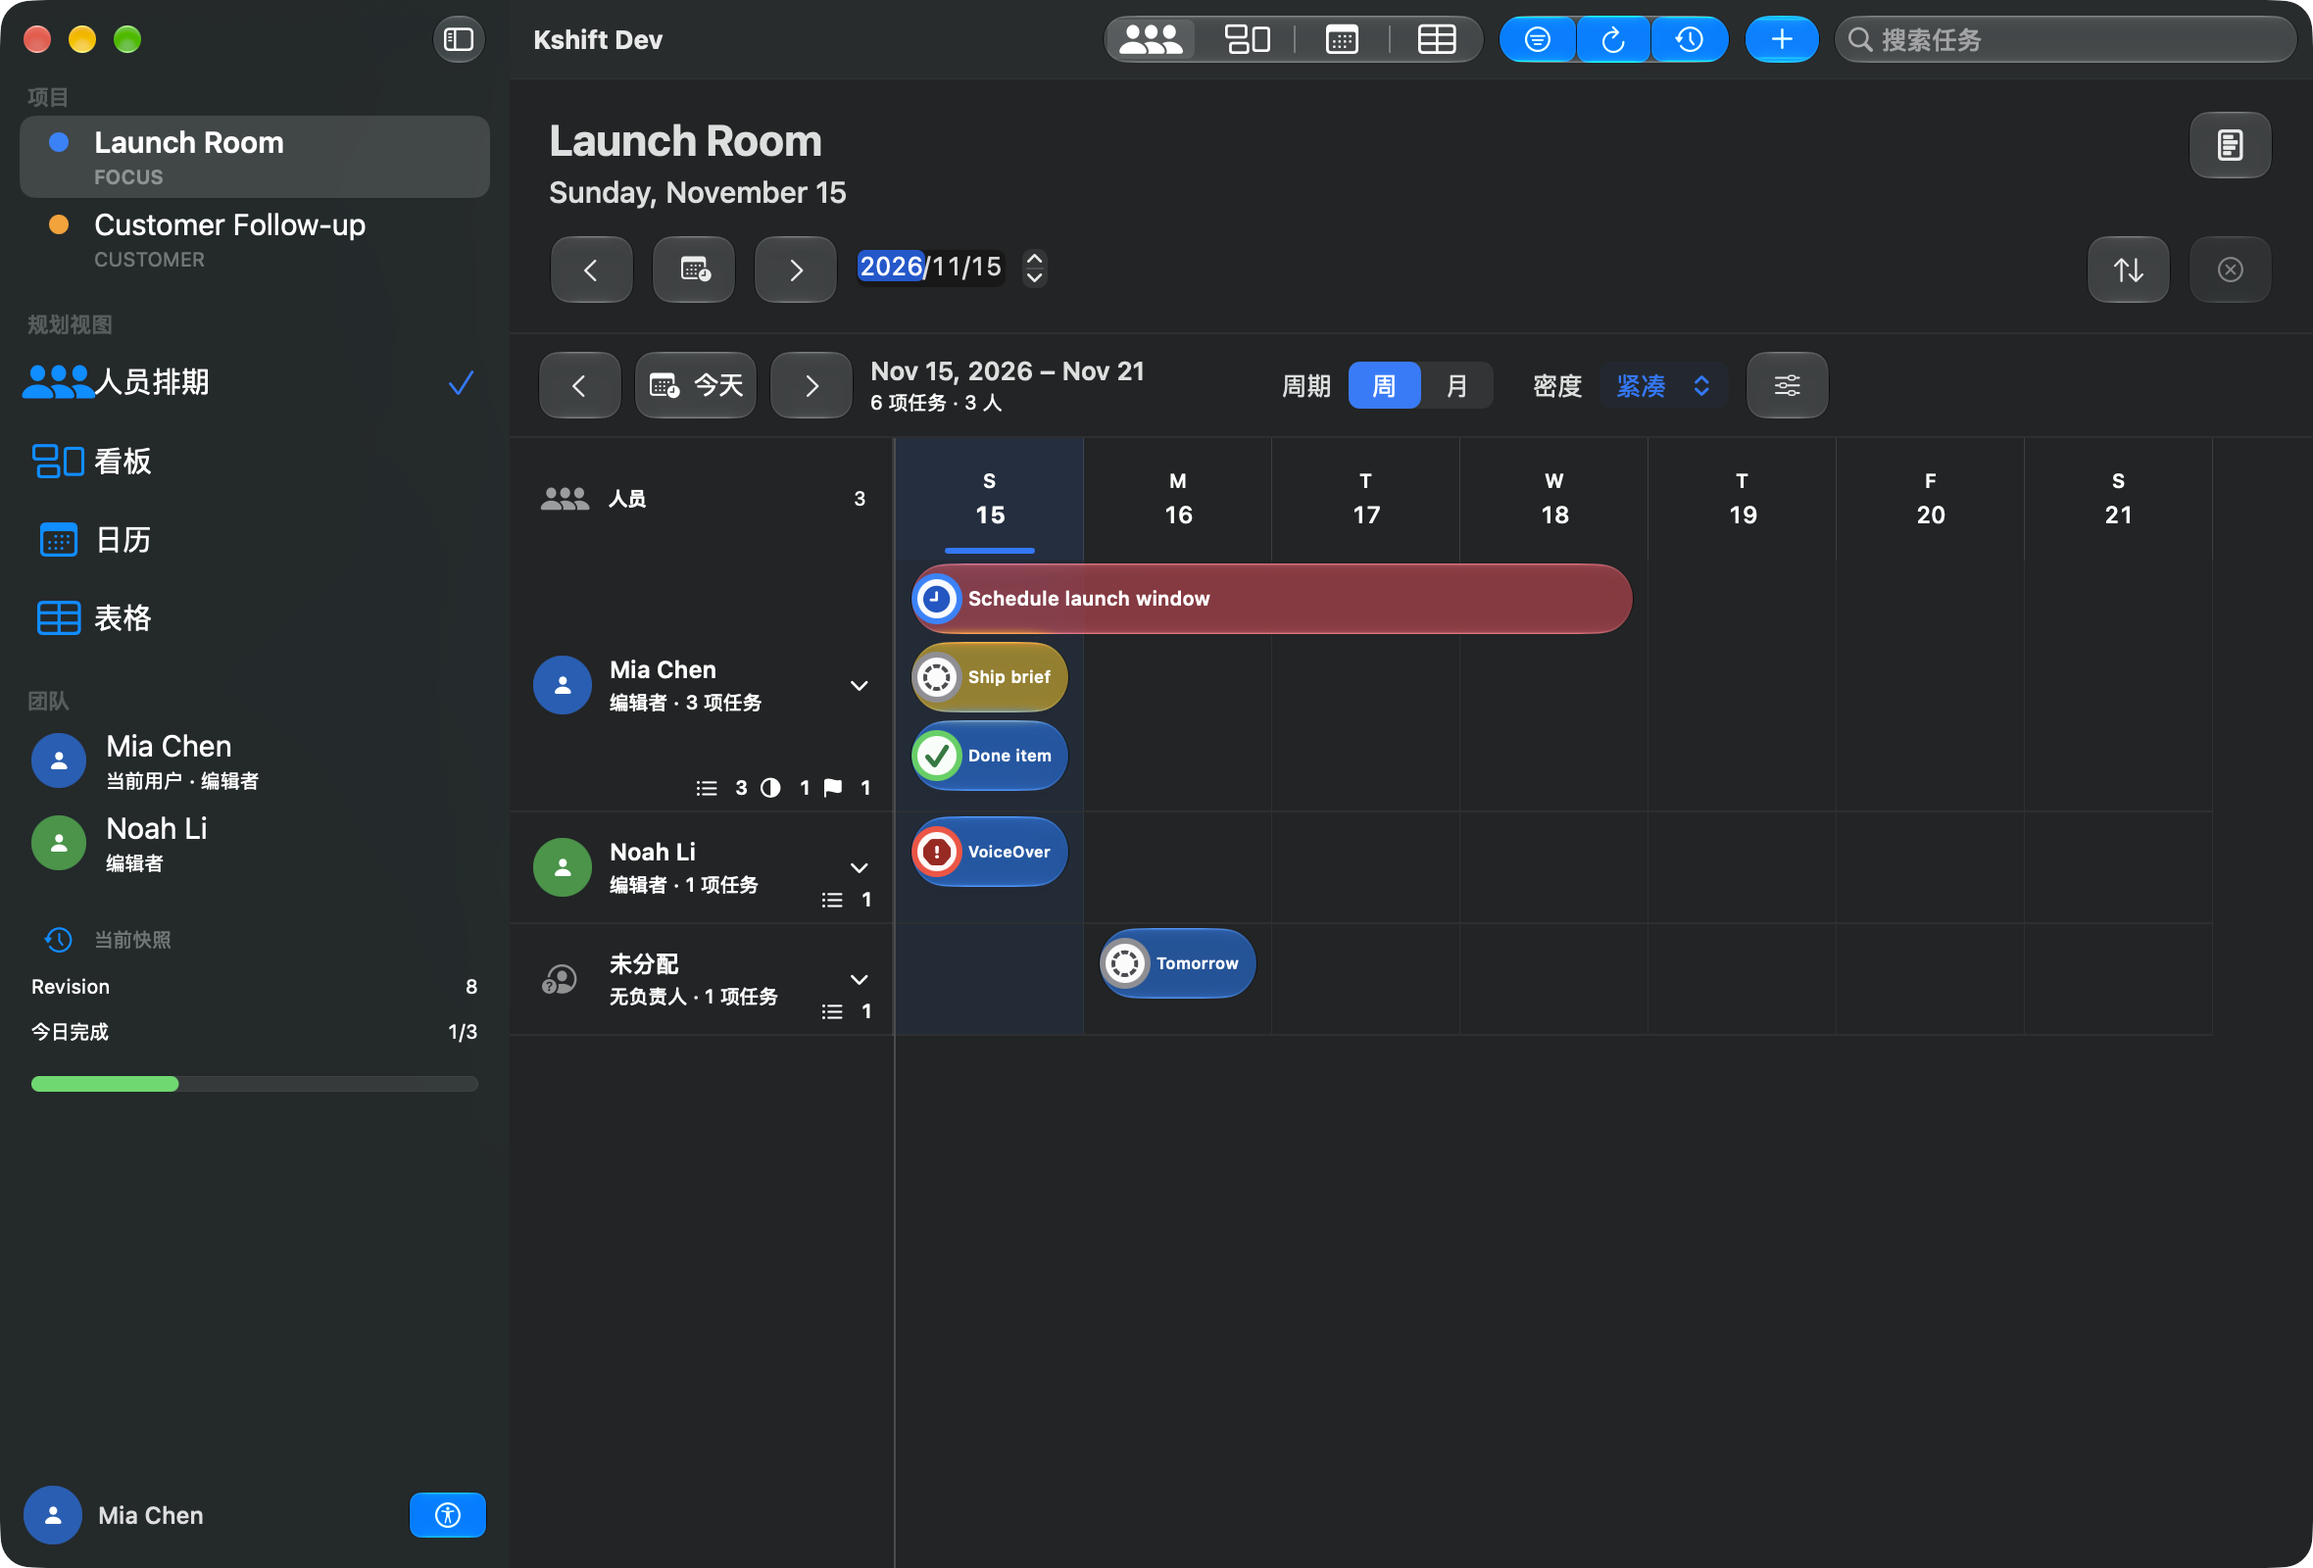
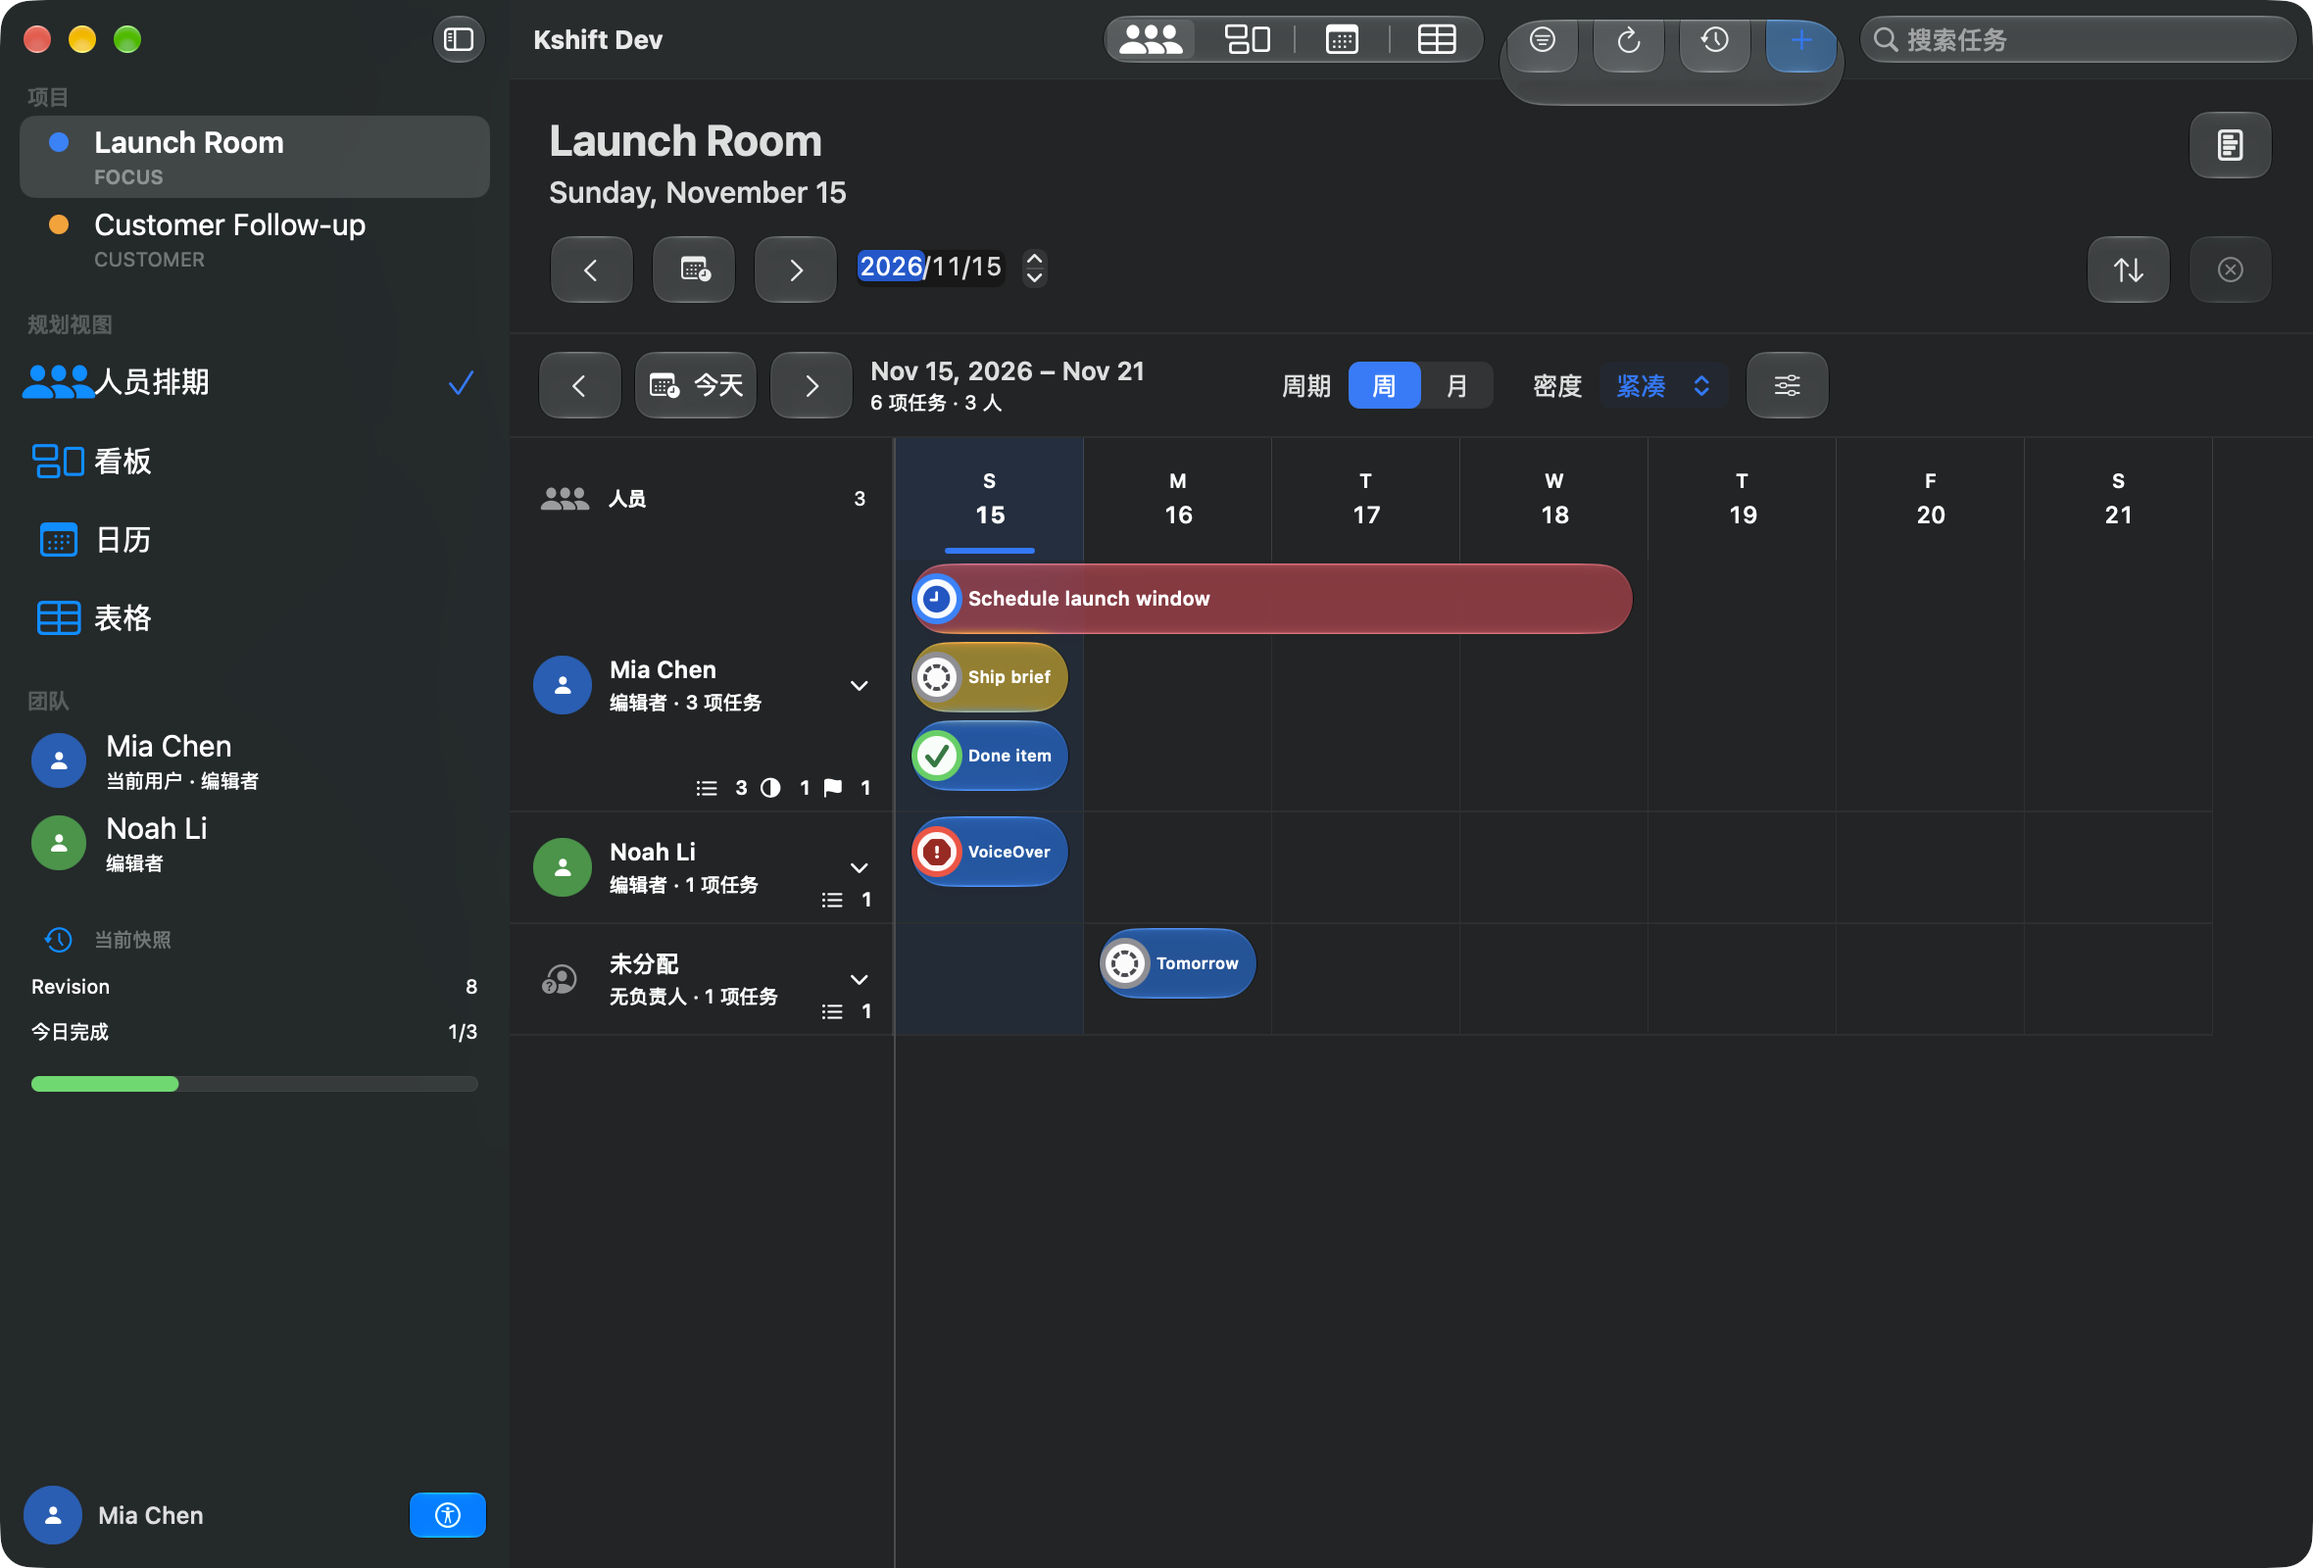
Balance window toolbar action hierarchy

Changed region(s): [[0.6496, 0.0, 0.8661, 0.0938]]

diff --git a/Sources/KshiftUI/KshiftRootView.swift b/Sources/KshiftUI/KshiftRootView.swift
@@ -35,7 +35,7 @@ public struct KshiftRootView: View {
                 } label: {
                     Label("筛选", systemImage: model.filter.isActive ? "line.3.horizontal.decrease.circle.fill" : "line.3.horizontal.decrease.circle")
                 }
-                .buttonStyle(.glass)
+                .buttonStyle(KshiftCompactGlassButtonStyle())
                 .popover(isPresented: $isShowingFilters, arrowEdge: .bottom) {
                     FilterPopover(model: model)
                 }
@@ -46,7 +46,7 @@ public struct KshiftRootView: View {
                 } label: {
                     Label("刷新", systemImage: "arrow.clockwise")
                 }
-                .buttonStyle(.glass)
+                .buttonStyle(KshiftCompactGlassButtonStyle())
                 .help("刷新共享快照")
 
                 Button {
@@ -54,7 +54,7 @@ public struct KshiftRootView: View {
                 } label: {
                     Label("审计", systemImage: "clock.arrow.circlepath")
                 }
-                .buttonStyle(.glass)
+                .buttonStyle(KshiftCompactGlassButtonStyle())
                 .help("查看项目审计")
                 .accessibilityIdentifier("project-audit")
 
@@ -64,7 +64,7 @@ public struct KshiftRootView: View {
                 } label: {
                     Label("新建任务", systemImage: "plus")
                 }
-                .buttonStyle(.glassProminent)
+                .buttonStyle(KshiftCompactAccentGlassButtonStyle())
                 .keyboardShortcut("n", modifiers: .command)
                 .accessibilityIdentifier(
                     dynamicTypeSize.isAccessibilitySize ? "add-task" : "toolbar-add-task"

diff --git a/Sources/KshiftUI/Styles/KshiftGlassStyle.swift b/Sources/KshiftUI/Styles/KshiftGlassStyle.swift
@@ -147,3 +147,29 @@ public struct KshiftCompactGlassButtonStyle: ButtonStyle {
     RoundedRectangle(cornerRadius: 10, style: .continuous)
   }
 }
+
+public struct KshiftCompactAccentGlassButtonStyle: ButtonStyle {
+  @Environment(\.colorScheme) private var colorScheme
+  @Environment(\.isEnabled) private var isEnabled
+
+  public init() {}
+
+  public func makeBody(configuration: Configuration) -> some View {
+    configuration.label
+      .foregroundStyle(Color.accentColor)
+      .padding(.horizontal, 6)
+      .frame(minWidth: 36, minHeight: 34)
+      .contentShape(shape)
+      .glassEffect(
+        .regular.tint(Color.accentColor.opacity(colorScheme == .dark ? 0.30 : 0.18)).interactive(),
+        in: shape
+      )
+      .frame(minWidth: 44, minHeight: 44)
+      .contentShape(Rectangle())
+      .opacity(isEnabled ? 1 : 0.45)
+  }
+
+  private var shape: RoundedRectangle {
+    RoundedRectangle(cornerRadius: 10, style: .continuous)
+  }
+}

diff --git a/docs/evidence/people-schedule/glass-task-bar/README.md b/docs/evidence/people-schedule/glass-task-bar/README.md
@@ -17,7 +17,7 @@ description: 记录人员排期任务条使用原生染色 Liquid Glass、明亮
 
 ## 触发原因
 
-用户要求任务条使用 SwiftUI Liquid Glass，不使用纯黑背景。Desktop 和 Mobile 必须用红、黄、蓝分别表达 P0、P1 和 P2。任务条必须扁平、紧凑、单行，并增加工作区可见任务数量。第二轮视觉反馈指出三个问题：任务条未统一左对齐、标题溢出胶囊、状态符号不清晰。后续视觉反馈指出 toolbar buttons 过高且 glass 颜色过深。
+用户要求任务条使用 SwiftUI Liquid Glass，不使用纯黑背景。Desktop 和 Mobile 必须用红、黄、蓝分别表达 P0、P1 和 P2。任务条必须扁平、紧凑、单行，并增加工作区可见任务数量。第二轮视觉反馈指出三个问题：任务条未统一左对齐、标题溢出胶囊、状态符号不清晰。后续视觉反馈指出 toolbar buttons 过高且 glass 颜色过深。Window primaryAction toolbar 也出现 multiple deep accent-tinted actions。
 
 ## 修复内容
 
@@ -45,15 +45,18 @@ description: 记录人员排期任务条使用原生染色 Liquid Glass、明亮
 - Toolbar visual height 为 34pt。Outer hit target 为 44pt。
 - Schedule toolbar 的 vertical padding 为 4pt，minimum height 为 52pt。
 - Toolbar buttons 不使用 accent-tinted `.buttonStyle(.glass)`。
+- Window primaryAction toolbar 对 filter、refresh 和 audit 使用 neutral `KshiftCompactGlassButtonStyle`。
+- New Task 使用 `KshiftCompactAccentGlassButtonStyle`。Accent glass opacity 为 `0.18` in Light Mode and `0.30` in Dark Mode。
+- Window toolbar 只保留 one accent action。
 
 ## 视觉证据
 
-截图使用固定日期 `2026-11-15` 和 Demo 数据。截图显示 P0、P1、P2 任务条在 Light Mode 和 Dark Mode 中保留优先级颜色、玻璃高光和单行紧凑布局。任务条保留统一的日期间距，不贴边绘制；单日标题完整显示或被 tail truncation 裁切；状态符号使用白芯高对比徽章，完成状态为绿色。Toolbar buttons 使用紧凑 neutral glass，不再出现 high-height accent-tinted blocks。
+截图使用固定日期 `2026-11-15` 和 Demo 数据。截图显示 P0、P1、P2 任务条在 Light Mode 和 Dark Mode 中保留优先级颜色、玻璃高光和单行紧凑布局。任务条保留统一的日期间距，不贴边绘制；单日标题完整显示或被 tail truncation 裁切；状态符号使用白芯高对比徽章，完成状态为绿色。Toolbar buttons 使用紧凑 neutral glass，不再出现 high-height accent-tinted blocks。Window toolbar 只保留 New Task as one pale-accent primary action。
 
 | 文件 | 环境 | 内容 | SHA-256 |
 | --- | --- | --- | --- |
[6 lines of base64/hex data omitted]
 

diff --git a/docs/specs/ui.md b/docs/specs/ui.md
@@ -90,6 +90,7 @@ flowchart TB
 | 看板中可拖拽、可选择、可执行命令的任务卡片 | `Glass.regular` 外表面 | 玻璃直接承载低对比文字 |
 | 人员排期任务条 | SwiftUI `Button` + `.glassEffect(.regular.tint(...).interactive(), in: Capsule(style: .continuous))` 和明亮优先级徽章 | `.buttonStyle(.glass)` 作为最终任务条、自绘玻璃、渐变、模糊和阴影 |
 | 人员排期工具栏按钮 | `KshiftCompactGlassButtonStyle`、neutral glass 和 primary content | accent-tinted `.buttonStyle(.glass)`、过高的玻璃容器 |
+| 窗口 primaryAction toolbar | secondary actions 使用 `KshiftCompactGlassButtonStyle`；最多一个 primary action 使用 `KshiftCompactAccentGlassButtonStyle` | 多个 `.glassProminent` actions、deep accent-tinted clusters |
 | 同组相邻玻璃卡片 | 共用一个 `GlassEffectContainer` | 每卡片一个 container |
 | 纯展示卡片 | 标准材质或清晰内容底板 | 用玻璃作为唯一可读表面 |
 | 正文、密集表格、人员排期、长文本编辑 | 清晰内容底板 | 低对比玻璃正文 |
@@ -102,6 +103,7 @@ flowchart TB
 - `UI-GLS-005`：同屏玻璃 effect 和 container 必须有性能上限。
 - `UI-GLS-006`：超过实测预算时，优先保留导航和当前操作卡片。
 - `UI-GLS-007`：使用系统语义色和 tint。禁止用玻璃透明度承载状态含义。
+- `UI-GLS-008`：Window primaryAction toolbar 必须使用 one-level hierarchy。Secondary actions 使用 neutral `KshiftCompactGlassButtonStyle`。At most one primary action 使用 `KshiftCompactAccentGlassButtonStyle`。Visual height 必须为 34pt。Outer hit target 不得小于 44pt。Accent glass opacity 不得高于 `0.18` in Light Mode and `0.30` in Dark Mode。禁止 multiple `.glassProminent` actions。
 
 ## 6. 无障碍与性能
 
